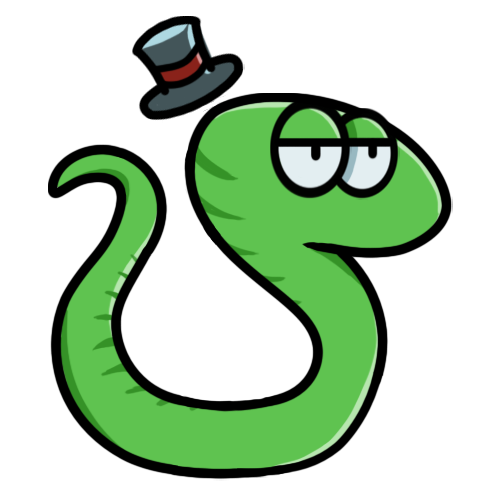
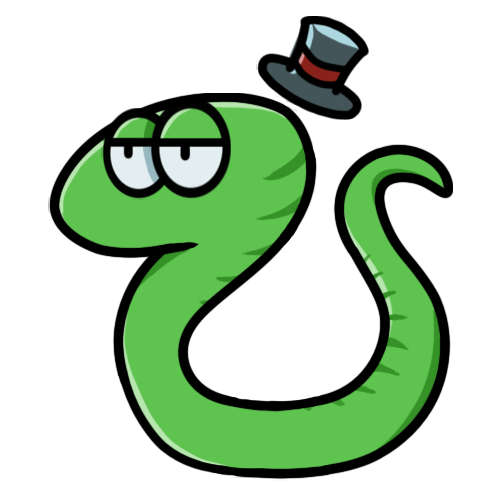
Changed app name to ClassSaga. Reuploaded snazake image reflected horizontally. Updated petTypes to include animation offsets to update for each pet.

diff --git a/client/src/pages/student/StudentPet.jsx b/client/src/pages/student/StudentPet.jsx
@@ -27,6 +27,7 @@ export default function StudentPet() {
     const [nameInput, setNameInput] = useState("");
     const [showLevelUp, setShowLevelUp] = useState(false);
     const [selectedInventoryCategory, setSelectedInventoryCategory] = useState("all");
+    const [showBrush, setShowBrush] = useState(false);
 
     const navigate = useNavigate();
 
@@ -199,13 +200,17 @@ export default function StudentPet() {
 
             const hungerIncrease = res.data.pet.hunger - previousHunger;
 
+            const xpGain = res.data.pet.level > previousLevel
+                ? (100 - previousExperience) + res.data.pet.experience
+                : res.data.pet.experience - previousExperience;
+
             const actionMessage =
                 res.data.actionType === "free"
                     ? `Fed ${res.data.pet.name} (Free) • Hunger +${hungerIncrease}`
                     : `Fed ${res.data.pet.name} (-10 pts) • Hunger +${hungerIncrease}`;
 
             addMessage(actionMessage);
-            showStatChanges({ hunger: hungerIncrease, experience: res.data.pet.experience - previousExperience });
+            showStatChanges({ hunger: hungerIncrease, experience: xpGain });
 
             if (res.data.pet.level > previousLevel) {
                 triggerLevelUp();
@@ -246,13 +251,17 @@ export default function StudentPet() {
 
             const happinessIncrease = res.data.pet.happiness - previousHappiness;
 
+            const xpGain = res.data.pet.level > previousLevel
+                ? (100 - previousExperience) + res.data.pet.experience
+                : res.data.pet.experience - previousExperience;
+
             const actionMessage =
                 res.data.actionType === "free"
                     ? `Played with ${res.data.pet.name} (Free) • Happiness +${happinessIncrease}`
                     : `Played with ${res.data.pet.name} (-10 pts) • Happiness +${happinessIncrease}`;
 
             addMessage(actionMessage);
-            showStatChanges({ happiness: happinessIncrease, experience: res.data.pet.experience - previousExperience });
+            showStatChanges({ happiness: happinessIncrease, experience: xpGain });
 
             if (res.data.pet.level > previousLevel) {
                 triggerLevelUp();
@@ -293,13 +302,17 @@ export default function StudentPet() {
 
             const cleanlinessIncrease = res.data.pet.cleanliness - previousCleanliness;
 
+            const xpGain = res.data.pet.level > previousLevel
+                ? (100 - previousExperience) + res.data.pet.experience
+                : res.data.pet.experience - previousExperience;
+
             const actionMessage =
                 res.data.actionType === "free"
                     ? `Brushed ${res.data.pet.name} (Free) • Cleanliness +${cleanlinessIncrease}`
                     : `Brushed ${res.data.pet.name} (-10 pts) • Cleanliness +${cleanlinessIncrease}`;
 
             addMessage(actionMessage);
-            showStatChanges({ cleanliness: cleanlinessIncrease, experience: res.data.pet.experience - previousExperience });
+            showStatChanges({ cleanliness: cleanlinessIncrease, experience: xpGain });
 
             if (res.data.pet.level > previousLevel) {
                 triggerLevelUp();
@@ -309,10 +322,12 @@ export default function StudentPet() {
                 );
             }
 
-            setReaction("react-brush");
+            setShowBrush(true);
             setTimeout(() => {
-                setReaction("");
-            }, 400);
+                setShowBrush(false);
+                setReaction("react-brush");
+                setTimeout(() => setReaction(""), 800);
+            }, 2500);
         } catch (err) {
             setActionError(err.response?.data?.message || "Failed to brush pet.");
         }
@@ -535,7 +550,7 @@ export default function StudentPet() {
                                         className="border rounded d-flex align-items-center justify-content-center"
                                         style={{ height: "500px", ...petSceneStyle }}
                                     >
-                                        <div className={`pet-container ${hopDirection} ${reaction} ${feedEffect ? "eating" : ""} ${showBall ? "playing" : ""}`}>
+                                        <div className={`pet-container ${hopDirection} ${reaction} ${feedEffect ? "eating" : ""} ${showBall ? "playing" : ""} ${showBrush ? "brushing" : ""}`}>
                                             <div className="pet-sprite pet-idle">
                                                 <img
                                                     src={`/assets/pets/${pet.species}.png`}
@@ -560,6 +575,7 @@ export default function StudentPet() {
                                         src={feedEffect} 
                                         alt="Food" 
                                         className="pet-food-anim" 
+                                        style={pet.animationOffsets?.feed}
                                     />
                                 )}
                                 {showBall && (
@@ -567,6 +583,15 @@ export default function StudentPet() {
                                         src="/assets/effects/BallOfSlime.png"
                                         alt="Ball"
                                         className="pet-ball-anim"
+                                        style={pet.animationOffsets?.ball}
+                                    />
+                                )}
+                                {showBrush && (
+                                    <img
+                                        src="/assets/effects/HairBrush.png"
+                                        alt="Brush"
+                                        className="pet-brush-anim"
+                                        style={pet.animationOffsets?.brush}
                                     />
                                 )}
                                 {showLevelUp && (
@@ -656,7 +681,7 @@ export default function StudentPet() {
                                 <div className="mb-3">
                                     <label className="form-label fw-semibold">
                                         XP ({pet.experience} / 100)
-                                        {statChanges.experience && (
+                                        {statChanges.experience > 0 && (
                                             <span className="text-success ms-2">+{statChanges.experience}</span>
                                         )}
                                     </label>

diff --git a/server/config/petTypes.js b/server/config/petTypes.js
@@ -3,16 +3,31 @@ const PET_TYPES = {
         name: "Wolfy",
         species: "wolfy",
         isStarter: true,
+        animationOffsets: {
+            feed:  { bottom: "50px", left: "35%" },
+            brush: { bottom: "60px", right: "25%" },
+            ball:  { bottom: "80px", left: "25%" },
+        },
     },
     pengu: {
         name: "Pengu",
         species: "pengu",
         isStarter: true,
+        animationOffsets: {
+            feed:  { bottom: "50px", left: "35%" },
+            brush: { bottom: "60px", right: "25%" },
+            ball:  { bottom: "80px", left: "25%" },
+        },
     },
     snazake: {
         name: "Snazake",
         species: "snazake",
         isStarter: true,
+        animationOffsets: {
+            feed:  { bottom: "50px", left: "35%" },
+            brush: { bottom: "60px", right: "25%" },
+            ball:  { bottom: "80px", left: "25%" },
+        },
     },
 };
 

diff --git a/client/src/pages/student/StudentPet.css b/client/src/pages/student/StudentPet.css
@@ -225,3 +225,29 @@
   z-index: 20;
   white-space: nowrap;
 }
+
+/* Brush */
+@keyframes brushStroke {
+  0%   { transform: translateX(0) rotate(-20deg);   opacity: 1; }
+  20%  { transform: translateX(-20px) rotate(-20deg); opacity: 1; }
+  40%  { transform: translateX(10px) rotate(-20deg);  opacity: 1; }
+  60%  { transform: translateX(-15px) rotate(-20deg); opacity: 1; }
+  80%  { transform: translateX(5px) rotate(-20deg);   opacity: 0.7; }
+  100% { transform: translateX(0) rotate(-20deg);   opacity: 0; }
+}
+
+.pet-brush-anim {
+  position: absolute;
+  bottom: 280px;
+  right: 45%;
+  width: 80px;
+  height: 80px;
+  object-fit: contain;
+  animation: brushStroke 2.5s ease-in-out forwards;
+  pointer-events: none;
+  z-index: 10;
+}
+
+.pet-container.brushing .pet-sprite {
+  animation: reactBrush 0.4s ease-in-out infinite;
+}

diff --git a/client/src/pages/Signup.jsx b/client/src/pages/Signup.jsx
@@ -42,7 +42,7 @@ export default function Signup() {
         <div className="card shadow p-4" style={{ width: 420 }}>
             <div className="text-center mb-4">
                 <h2 style={{ color: "var(--color-text)", fontFamily: "'Philosopher', serif", letterSpacing: "1px" }}>
-                    EduSaga
+                    ClassSaga
                 </h2>
                 <p className="text-muted mb-0">Create your account</p>
             </div>

diff --git a/client/src/components/Navbar.jsx b/client/src/components/Navbar.jsx
@@ -20,7 +20,7 @@ export default function Navbar() {
         <nav className="navbar navbar-light px-3">
             <div className="d-flex align-items-center gap-3">
                 <Link className="navbar-brand fw-bold mb-0" to={homeLink} style={{ fontFamily: "'Philosopher', serif", fontSize: "1.4rem" }}>
-                    EduSaga
+                    ClassSaga
                 </Link>
 
                 {user?.role === "student" && (

diff --git a/client/src/pages/Login.jsx b/client/src/pages/Login.jsx
@@ -42,7 +42,7 @@ export default function Login() {
         <div className="card p-4 shadow" style={{ width: "100%", maxWidth: "400px" }}>
         <div className="text-center mb-4">
             <h2 style={{ color: "var(--color-text)", fontFamily: "'Philosopher', serif", letterSpacing: "1px" }}>
-                EduSaga
+                ClassSaga
             </h2>
 
             <p className="text-muted mb-0">Sign in to continue</p>

diff --git a/server/routes/petRoutes.js b/server/routes/petRoutes.js
@@ -70,7 +70,12 @@ router.get("/my-pet", protect, async (req, res) => {
             await pet.save();
         }
 
-        res.json(pet);
+        const petType = PET_TYPES[pet.species];
+
+        res.json({
+            ...pet.toObject(),
+            animationOffsets: petType?.animationOffsets || {},
+        });
     } catch (err) {
         res.status(500).json({ message: "Failed to fetch pet." });
     }
